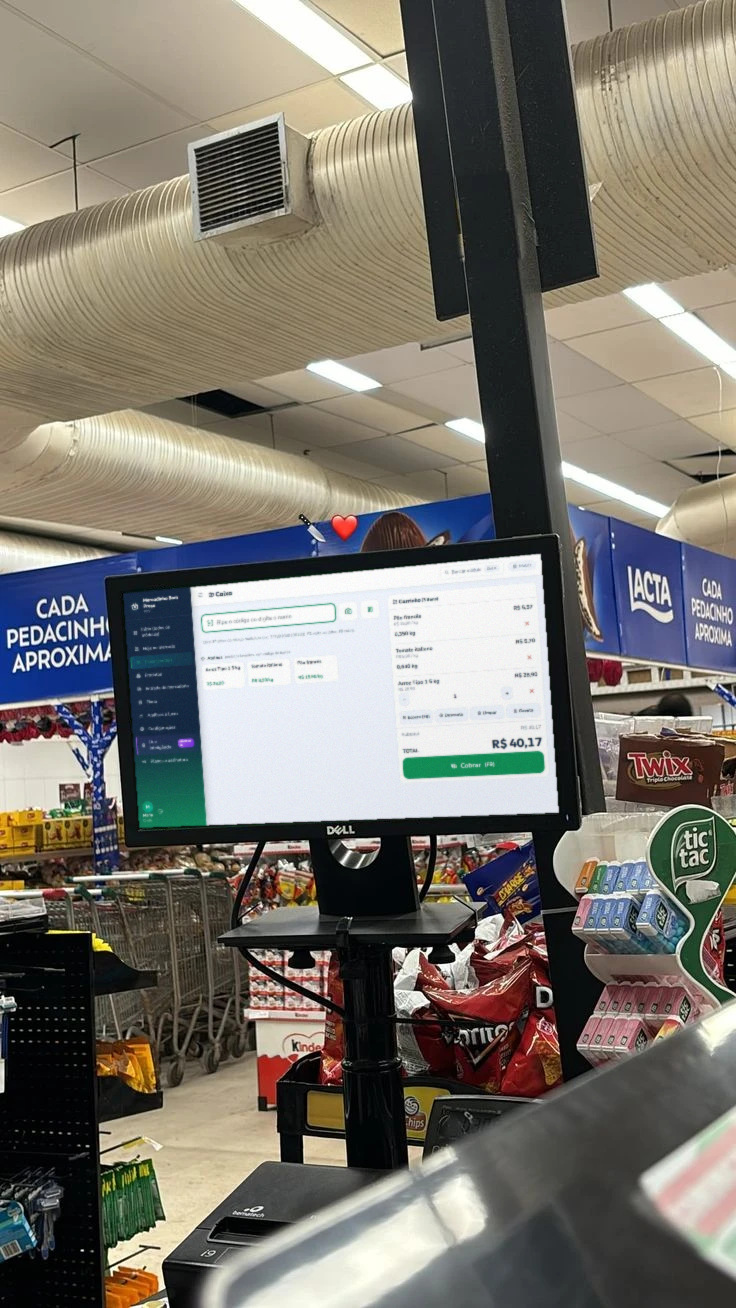
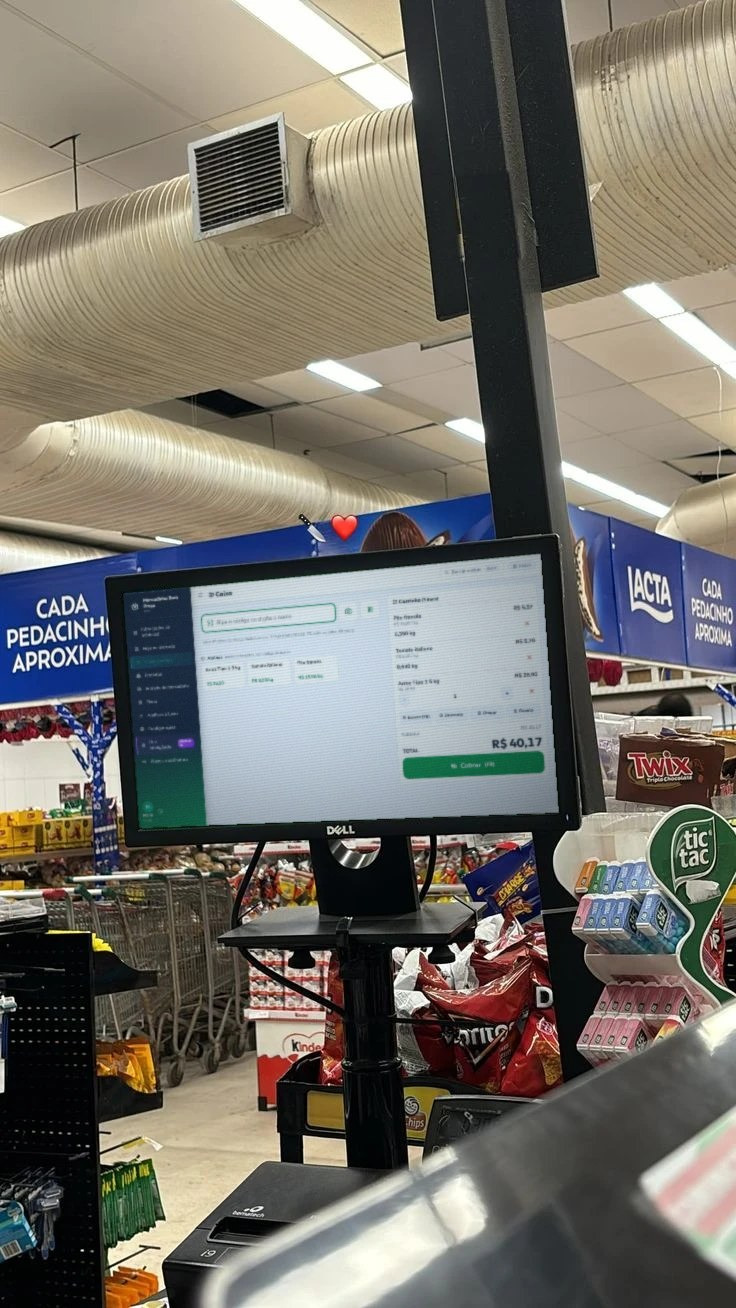
LinkedIn: tela do Future PDV com aspecto de foto de monitor
Claude-Session: https://claude.ai/code/session_011wVZ46enuREekw3fmvg4Fn

Changed region(s): [[0.1875, 0.3976, 0.7812, 0.6422]]

diff --git a/linkedin/edicao/editar.py b/linkedin/edicao/editar.py
@@ -1,0 +1,49 @@
+from PIL import Image, ImageDraw, ImageFilter
+import numpy as np, io
+im=Image.open('linkedin/edicao/original.png').convert('RGB'); W,H=im.size
+# 1) remove o "13" clonando o poste (com compensação da inclinação da borda)
+a=np.asarray(im).astype(np.float32).copy()
+mask=Image.new('L',(W,H),0); ImageDraw.Draw(mask).polygon([(454,176),(521,170),(523,258),(462.5,260)],fill=255)
+m=(np.asarray(mask.filter(ImageFilter.GaussianBlur(1.6))).astype(np.float32)/255.0)[...,None]
+ys,xs=np.mgrid[0:H,0:W]
+src=a[np.clip((ys+80).astype(int),0,H-1),np.clip((xs+8.5).astype(int),0,W-1)]
+a=a*(1-m)+src*m
+im=Image.fromarray(np.clip(a,0,255).astype(np.uint8))
+# 2) tela do Future PDV, com acabamento de foto de monitor
+dst=[(123,593),(541,553),(559,813),(139,828)]
+scr=Image.open('video-mercado/out/sys/mk-caixa.png').convert('RGB').resize((880,522),Image.LANCZOS)
+sw,sh=scr.size
+def coeffs(s,d):
+    A=[];B=[]
+    for (x,y),(u,v) in zip(s,d):
+        A.append([x,y,1,0,0,0,-u*x,-u*y]);B.append(u)
+        A.append([0,0,0,x,y,1,-v*x,-v*y]);B.append(v)
+    return np.linalg.solve(np.array(A,float),np.array(B,float))
+c=tuple(coeffs(dst,[(0,0),(sw,0),(sw,sh),(0,sh)]))
+warp=scr.transform((W,H),Image.PERSPECTIVE,c,Image.BICUBIC)
+# gradiente (centro mais claro, bordas mais escuras) no plano da tela
+gy,gx=np.mgrid[0:sh,0:sw]
+g=1-0.28*np.clip((((gx-sw*0.45)/(sw*0.62))**2+((gy-sh*0.4)/(sh*0.7))**2),0,1.4)
+gw=np.asarray(Image.fromarray((np.clip(g,0,1)*255).astype(np.uint8)).transform((W,H),Image.PERSPECTIVE,c,Image.BICUBIC)).astype(np.float32)/255.0
+qm=Image.new('L',(W,H),0); ImageDraw.Draw(qm).polygon(dst,fill=255)
+qs=np.asarray(qm.filter(ImageFilter.GaussianBlur(0.9))).astype(np.float32)/255.0
+w=np.asarray(warp.filter(ImageFilter.GaussianBlur(0.75))).astype(np.float32)
+w=w*gw[...,None]*0.82                       # menos estourada
+w=w*np.array([0.94,1.0,1.03])               # leve tom frio/esverdeado de LCD
+yy,xx=np.mgrid[0:H,0:W]
+w=w*(1-0.028*np.sin(2*np.pi*(yy*0.93+xx*0.12)/2.7))[...,None]   # trama dos pixels/moiré
+rng=np.random.default_rng(5); w=w+rng.normal(0,3.2,w.shape)
+refl=np.clip(1-(xx*0.5+yy*0.9-700)/300,0,1)*np.clip((xx*0.5+yy*0.9-400)/220,0,1)
+w=w+refl[...,None]*20
+base=np.asarray(im).astype(np.float32)
+dark=np.array([12,16,20],np.float32)
+out=base*(1-qs[...,None])+(w*qs[...,None]+dark*0*qs[...,None])
+# brilho (bloom) da tela vazando para a moldura
+bl=np.asarray(Image.fromarray(np.clip(w*qs[...,None],0,255).astype(np.uint8)).filter(ImageFilter.GaussianBlur(10))).astype(np.float32)
+out=out+bl*0.14*(1-qs[...,None])
+img=Image.fromarray(np.clip(out,0,255).astype(np.uint8))
+# 3) recompressão (mesma "cara" de foto de celular)
+buf=io.BytesIO(); img.save(buf,'JPEG',quality=88); buf.seek(0); img=Image.open(buf).convert('RGB')
+img.save('linkedin/edicao/caixa-future-pdv.jpg',quality=92,subsampling=0)
+img.crop((60,500,640,880)).resize((1160,760)).save('/tmp/check_screen.png')
+print(img.size)
